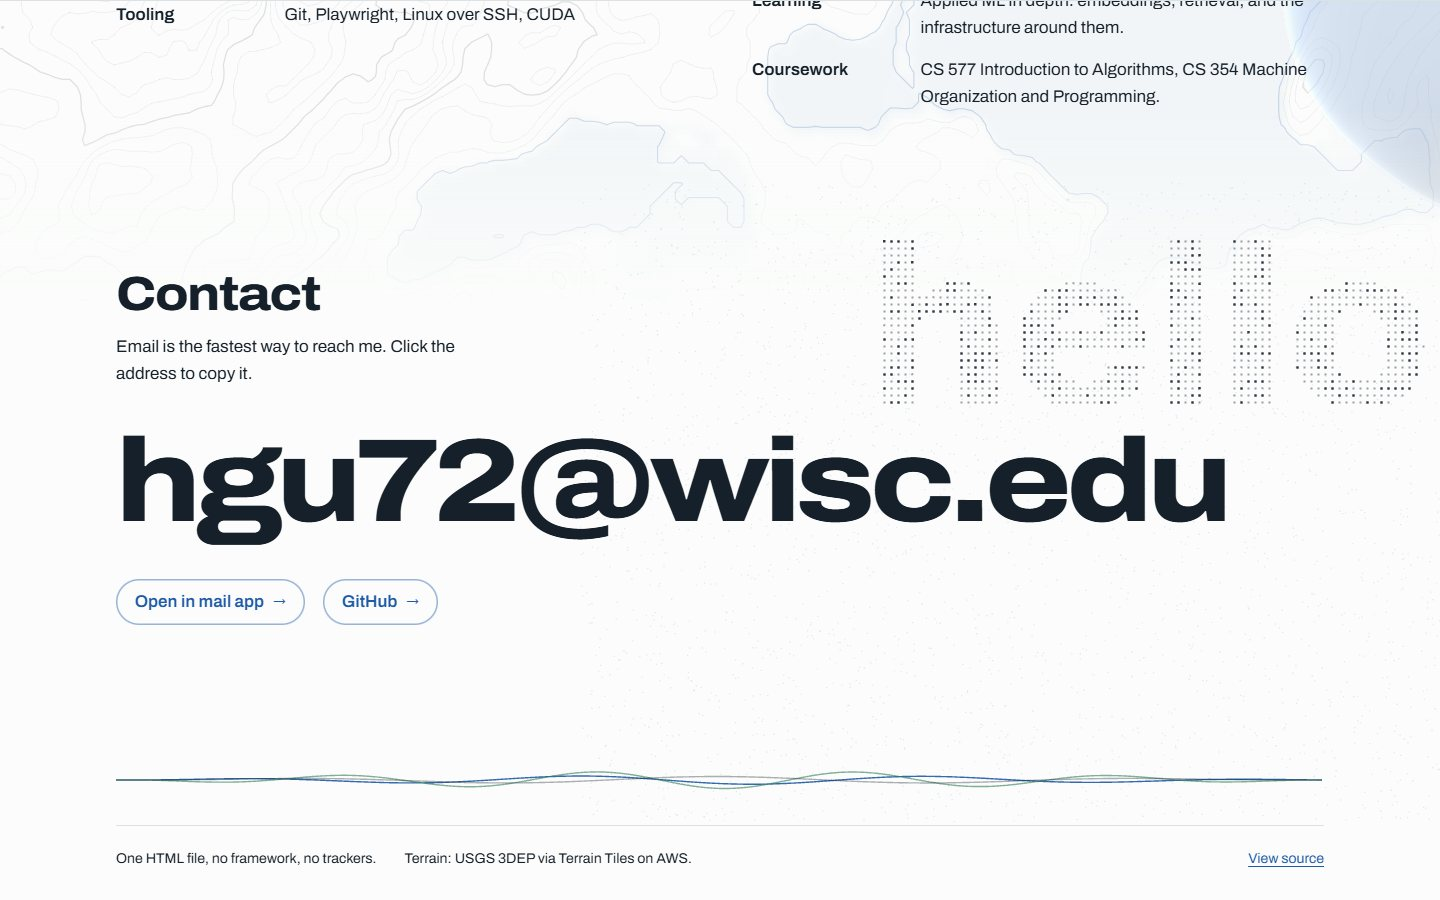
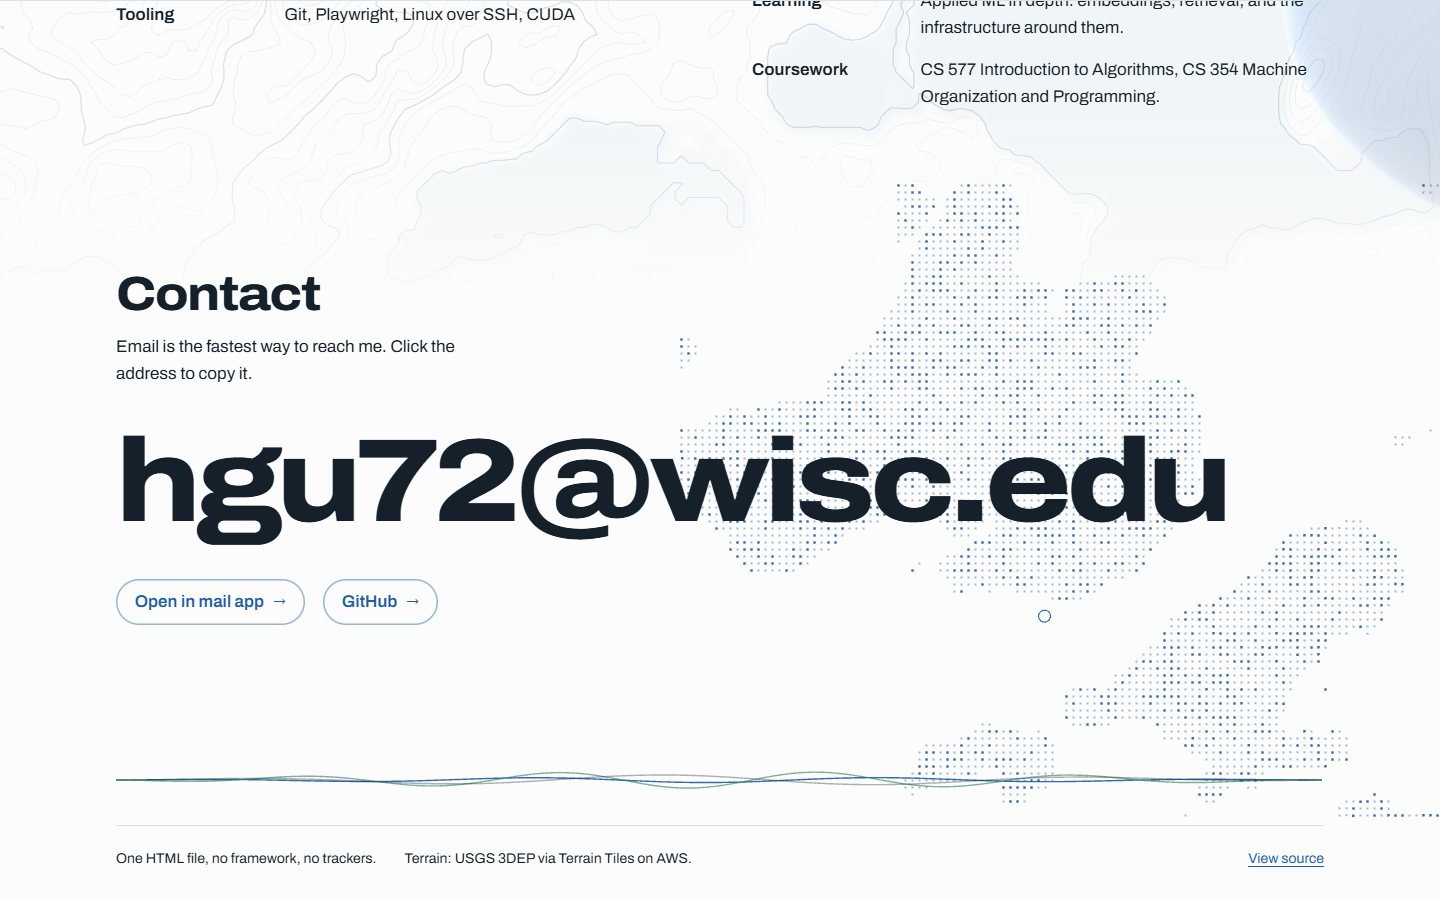
Phones: no map readout, constellation or hello particles
- hero: touch-tap level highlight removed; readout hidden without hover or below 760 px
- stack constellation and contact particles hidden below 760 px, kept with ?full
- particles skip building while the canvas has no size
- README: phone section for the portrait stage, motion layer and ?full

diff --git a/index.html b/index.html
@@ -101,6 +101,8 @@ h1{margin:0; font-size:clamp(5rem,17vw,15.5rem); line-height:.8; font-weight:800
 .readout{margin-left:auto; text-align:right; min-width:15em}
 .readout b{display:block; color:var(--ink); font-weight:600}
 @media (max-width:640px){ .readout{margin-left:0; text-align:left} }
+/* The readout answers the mouse; without hover, or on a phone, it is left out */
+@media (hover:none), (max-width:760px){ .readout{display:none} }
 
 /* sections */
 section.block{padding:clamp(88px,12vw,160px) 0 0}
@@ -250,9 +252,9 @@ h2{margin:0; font-size:clamp(1.9rem,3.6vw,3rem); line-height:1.02; font-weight:7
 .fig .dot.faint{fill:var(--faint)}
 .fig figcaption code{font:.94em ui-monospace,Consolas,monospace; color:var(--ink)}
 @media (prefers-reduced-motion:no-preference){
-  .js .fig .draw{stroke-dasharray:1 1; stroke-dashoffset:1; transition:stroke-dashoffset 1.1s cubic-bezier(.33,.9,.4,1); transition-delay:calc(var(--d,0) * 90ms)}
+  .js .fig .draw{stroke-dasharray:1 1; stroke-dashoffset:1; transition:stroke-dashoffset 2.2s cubic-bezier(.33,.9,.4,1); transition-delay:calc(var(--d,0) * 170ms)}
   /* Three steps rather than a smooth fade: each step repaints the figure, and these are SVG nodes */
-  .js .fig .n{opacity:0; transition:opacity .55s ease-out; transition-delay:calc(var(--d,0) * 90ms)}
+  .js .fig .n{opacity:0; transition:opacity 1s ease-out; transition-delay:calc(var(--d,0) * 170ms)}
   .js .fig.seen .draw{stroke-dashoffset:0}
   .js .fig.seen .n{opacity:1}
 }
@@ -301,8 +303,10 @@ footer .src{margin-left:auto}
 .count{display:inline-block; font-variant-numeric:tabular-nums; text-align:right}
 .contact{position:relative; isolation:isolate; background:linear-gradient(to bottom, transparent, var(--paper) clamp(120px,14vw,200px))}
 #dust{position:absolute; z-index:-1; top:clamp(24px,5vw,72px); right:0; width:min(64vw,860px); height:min(56vw,640px); pointer-events:none}
-/* Phones and portrait tablets: the particles get their own space above the heading instead of sitting on the text */
+/* Below 1000 px the particles get their own space above the heading instead of sitting on the text;
+   phones leave them out, unless ?full asks for everything */
 @media (max-width:1000px){ #dust{width:100%; height:min(66vw, 440px); top:28px; opacity:.9} section.block.contact{padding-top:calc(min(66vw, 440px) + 44px)} }
+@media (max-width:760px){ :root:not(.full) #dust{display:none} :root:not(.full) section.block.contact{padding-top:clamp(88px,12vw,160px)} }
 @supports (animation-timeline:view()){
   @media (prefers-reduced-motion:no-preference){
     .index li{animation:slide-in linear both; animation-timeline:view(); animation-range:entry 0% entry 70%}
@@ -349,7 +353,8 @@ footer .src{margin-left:auto}
 #decisions{position:relative; isolation:isolate}
 .net{height:clamp(300px,30vw,380px); margin:0 0 clamp(40px,6vw,72px)}
 .net canvas{display:block; width:100%; height:100%}
-@media (max-width:759px){ .net{height:680px} }
+/* The constellation needs width to read: phones go straight to the lists, unless ?full asks for everything */
+@media (max-width:760px){ :root:not(.full) .net{display:none} .full .net{height:680px} }
 #now .two > div{position:relative}
 #now{position:relative; isolation:isolate; overflow-x:clip}
 #now .two{position:relative}
@@ -1623,7 +1628,7 @@ const terrain = (() => {
   // it stands and fades, so fast movement never lights up the whole map.
   const NH = 9, REACH = 330;
   const hls = Array.from({ length: NH }, () => ({ L: 0, x: 0, y: 0, R: 0, tR: 0, a: 0, ta: 0, live: false }));
-  let curL = null, tapT = 0;
+  let curL = null;
   const levelFor = (e) => e < SHORE + .6 ? SHORE : BASE + STEP * Math.max(0, Math.round((e - BASE) / STEP));
   const retract = () => { for (const h of hls) if (h.live) { h.live = false; h.tR = 0; h.ta = 0; } };
   const spread = (L, x, y) => {
@@ -1728,15 +1733,6 @@ const terrain = (() => {
     tx = null; curL = null; retract();
     home(); kick();
   });
-  // Touch has no hover: a tap lights the level there for a moment
-  hero.addEventListener('pointerdown', (e) => {
-    if (!ready || !g || e.pointerType === 'mouse') return;
-    pointAt(e);
-    const L = levelFor(at((tx - ox) / s, (ty - oy) / s));
-    curL = L; spread(L, tx, ty); read((tx - ox) / s, (ty - oy) / s); tx = null;
-    clearTimeout(tapT); tapT = setTimeout(() => { retract(); curL = null; kick(); }, 1800);
-    kick();
-  });
 
   // Background sheet: faint contours behind the page, scrolling slower than content.
   // A ScrollTimeline runs the offset on the compositor, in step with native scrolling;
@@ -1809,6 +1805,8 @@ const terrain = (() => {
   const build = () => {
     const r = cv.getBoundingClientRect();
     W = r.width; H = r.height; dpr = Math.min(devicePixelRatio || 1, 1.5);
+    // Left out on phones: nothing to build until the canvas has a size
+    if (!W || !H) { P = []; shapes = [[], []]; return; }
     cv.width = Math.round(W * dpr); cv.height = Math.round(H * dpr); ctx.setTransform(dpr, 0, 0, dpr, 0, 0);
     // Crop around Mendota and Monona in grid cells, right-aligned in the canvas
     const I0 = 112, I1 = 352, J0 = 12, J1 = 214, sc = Math.min(W / (I1 - I0), H / (J1 - J0));
@@ -1893,8 +1891,9 @@ const terrain = (() => {
     if (onScreen && (pending > 0 || energy / (P.length || 1) > .01)) raf = requestAnimationFrame(frame);
   };
   const kick = () => { if (!raf && onScreen && !still) { last = performance.now(); raf = requestAnimationFrame(frame); } };
+  let gridIn = false;
   terrain.gridReady.then(() => {
-    build(); draw();
+    gridIn = true; build(); draw();
     new IntersectionObserver(([e]) => { onScreen = e.isIntersecting; kick(); }, { rootMargin: '80px' }).observe(cv);
   });
   sec.addEventListener('pointermove', (e) => { if (e.pointerType !== 'mouse') return; const r = cv.getBoundingClientRect(); mx = e.clientX - r.left; my = e.clientY - r.top; kick(); });
@@ -1905,7 +1904,7 @@ const terrain = (() => {
     quietUntil = performance.now() + 10000; morph();
   });
   let rt = 0;
-  addEventListener('resize', () => { clearTimeout(rt); rt = setTimeout(() => { if (P.length) { build(); draw(); kick(); } }, 200); });
+  addEventListener('resize', () => { clearTimeout(rt); rt = setTimeout(() => { if (gridIn) { build(); draw(); kick(); } }, 200); });
   addEventListener('themechange', () => { col = null; draw(); });
 })();
 // Shared helpers for the decorative canvases

diff --git a/docs/screenshots.py b/docs/screenshots.py
@@ -59,8 +59,13 @@ with sync_playwright() as p:
     pg.add_init_script("localStorage.setItem('theme', 'light'); sessionStorage.setItem('intro', '1')")
     pg.goto(URL); pg.wait_for_timeout(4000)
     frames = []
-    for el, extra in [(None, 0), ("uw-course-lookup", -24), ("contact", 0)]:
-        if el: to(pg, el, extra); pg.wait_for_timeout(3000)
+    # Hero; uw-course-lookup on the portrait work stage (page 3); contact
+    for step in ["hero", "work", "contact"]:
+        if step == "work":
+            to(pg, "film"); pg.wait_for_timeout(4500)
+            pg.evaluate("filmGo(2)"); pg.wait_for_timeout(5000)
+        elif step == "contact":
+            to(pg, "contact"); pg.wait_for_timeout(3000)
         pg.screenshot(path=str(OUT / "_m.png"), timeout=120000); frames.append(Image.open(OUT / "_m.png").convert("RGB").resize((390, 844)))
     (OUT / "_m.png").unlink()
     sheet = Image.new("RGB", (390 * 3 + 40 * 2, 844), (255, 255, 255))

diff --git a/README.md b/README.md
@@ -22,7 +22,7 @@ H. Gu's portfolio site, live at **<https://webgrs.github.io>**. It's a single `i
 
 ### Hero
 
-The map is traced from USGS 3DEP elevation (via Terrain Tiles on AWS) at a 5 m contour interval. Marching squares runs in a worker on an OffscreenCanvas, and the map reveals outward from campus. The contour under the pointer lights up in a soft patch that spreads slowly; on the WebGL tier the contours 5 m above and below light up with it, fainter. Hovering also reads out coordinates and elevation.
+The map is traced from USGS 3DEP elevation (via Terrain Tiles on AWS) at a 5 m contour interval. Marching squares runs in a worker on an OffscreenCanvas, and the map reveals outward from campus. The contour under the pointer lights up in a soft patch that spreads slowly; on the WebGL tier the contours 5 m above and below light up with it, fainter. With a mouse, hovering also reads out coordinates and elevation.
 
 Once per session a short loader plays first: five real contour lines of a hill northwest of Madison (43.132° N, 89.512° W, 337 m), drawn stroke by stroke while fonts and terrain load.
 
@@ -54,9 +54,11 @@ The terrain continues behind everything as a faint sheet that scrolls slower tha
 
 ## On a phone
 
-![Three phone screens: the hero, uw-course-lookup in the one-column project list, and the contact section](docs/mobile.jpg)
+![Three phone screens: the hero, uw-course-lookup on the paged work stage, and the contact section](docs/mobile.jpg)
 
-Below 900 px the work section is a single column: screenshot, notes, then the figure, scaled to the screen width. The Stack and Now lists put each label above its text, and the contact particles get their own space above the heading instead of sitting behind it.
+On a portrait phone the work section is paged like the desktop one, with the screenshot on top and the notes under it. Held sideways, or in a short window, it's a single-column list instead, and its screenshots unroll as they arrive. Below 900 px blocks rise in as they scroll into view and a thin bar at the top tracks reading progress. The Stack and Now lists put each label above its text.
+
+Phones leave out what needs a mouse or a wide screen: the map's elevation readout, the stack constellation and the contact particles. Tablets keep the particles, above the contact heading instead of behind it; without hover they skip the readout too. `?full` brings back the constellation, the particles and the orb by the Now list on a phone, whatever it costs.
 
 ## Performance and accessibility
 
@@ -68,7 +70,7 @@ The page picks an effects tier on load and logs the choice and the reason to the
 | 1 | Canvas 2D | 4 or fewer CPU threads or 4 GB or less memory, or a software GPU |
 | 0 | Static | reduced motion, Save-Data, or 2 or fewer threads or 2 GB or less memory |
 
-`?fx=0`, `?fx=1` or `?fx=2` forces a tier. Every decorative canvas draws only while it's on screen, and canvases on work pages that aren't showing stop drawing. With `prefers-reduced-motion`, on a portrait screen, or in a window narrower than 900 px or shorter than 560 px, the work section becomes a plain list with the same content. Screen readers get plain-text copies of the animated headings. Secondary text is never grey; it's set in the ink colour and told apart by size and weight.
+`?fx=0`, `?fx=1` or `?fx=2` forces a tier. Every decorative canvas draws only while it's on screen, and canvases on work pages that aren't showing stop drawing. The work section is paged on landscape screens at least 900 × 560 and on portrait screens under 900 px wide and at least 560 px tall; anywhere else, with `prefers-reduced-motion`, or on the static tier, it's a plain list with the same content. Screen readers get plain-text copies of the animated headings. Secondary text is never grey; it's set in the ink colour and told apart by size and weight.
 
 ## Projects shown
 
